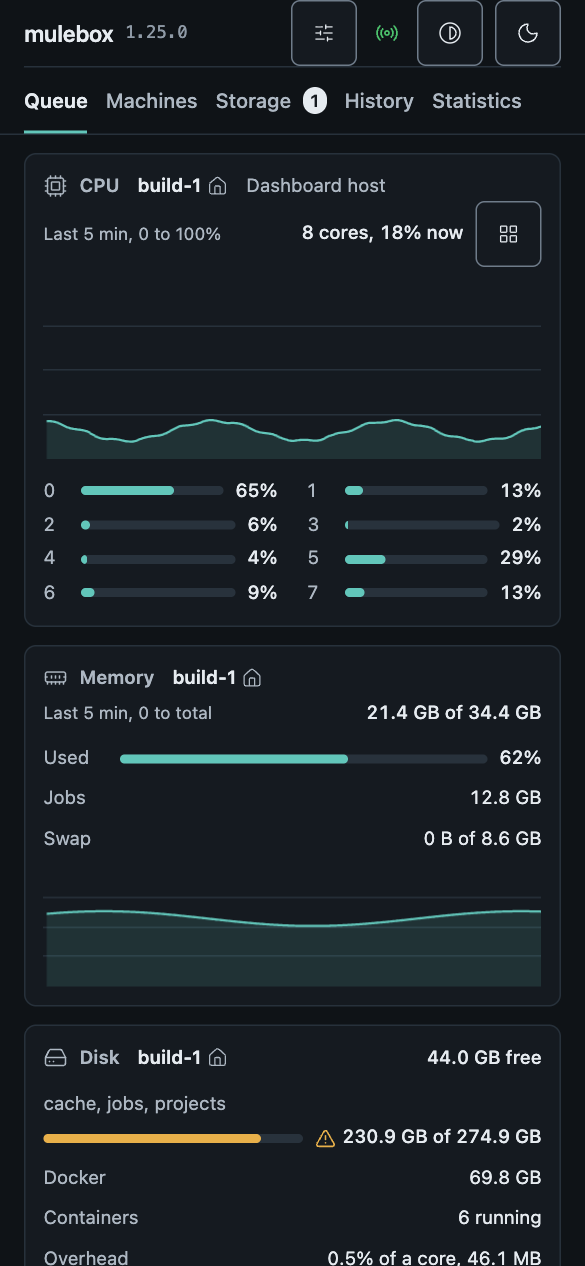
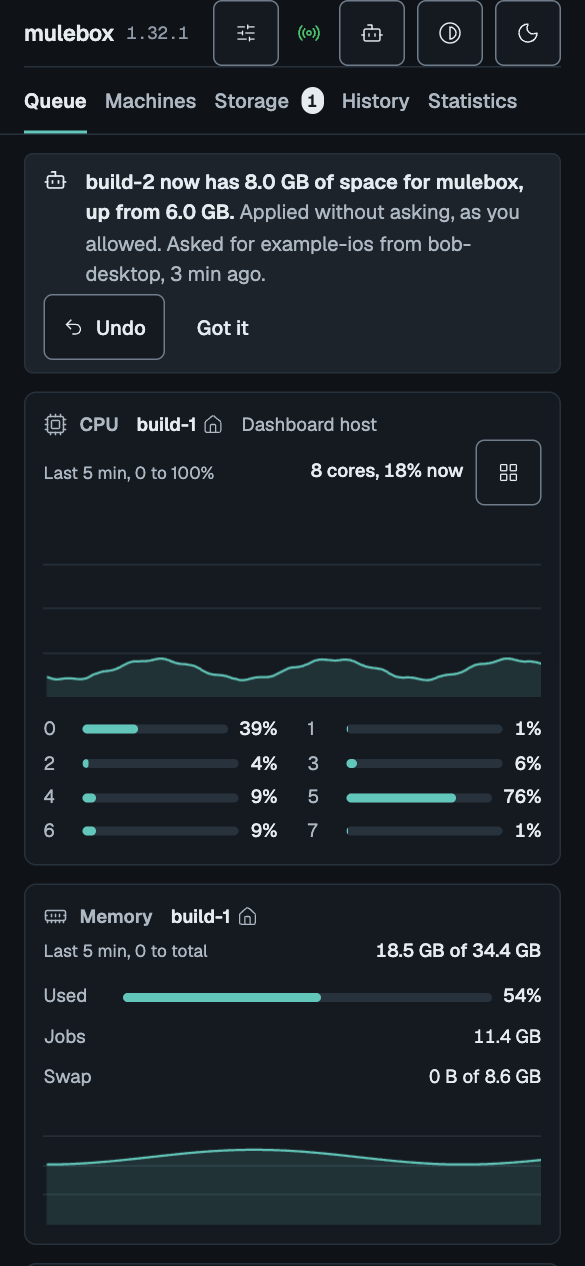
1.32.2: README on agents asking for more space, with new pictures; every picture retaken

diff --git a/web/dev/asks.ts b/web/dev/asks.ts
@@ -35,11 +35,13 @@ const asked = (list: Ask[], note: string | null = null) => ({
   value: list.reduce((a, b) => (parseFloat(b.value) > parseFloat(a) ? b.value : a), list[0].value), note,
   asks: list.map(({ value, reason, project, job_id, client, asked_at }) => ({ value, reason, project, job_id, client, asked_at })) });
 const changes: Change[] = [
+  { id: id("chg"), node: null, setting: "agents", old: "allow", new: "ask", how: "agents", asked: null,
+    by: "the dashboard, from 192.168.1.50", at: now() - 60, in_force_at: null, undo_of: null },
   { id: id("chg"), node: "build-2", setting: "max_size", old: "6GB", new: "8GB", how: "allowed",
     asked: asked([ask("build-2", "8GB", 2, "example-ios", "bob-desktop", "Two simulator runtimes no longer fit beside DerivedData.")]),
     by: null, at: now() - 110, in_force_at: now() - 104, undo_of: null },
-  { id: id("chg"), node: null, setting: "agents", old: "allow", new: "ask", how: "agents", asked: null,
-    by: "the dashboard, from 192.168.1.50", at: now() - 3 * 3600, in_force_at: null, undo_of: null },
+  { id: id("chg"), node: null, setting: "agents", old: "ask", new: "allow", how: "agents", asked: null,
+    by: "the dashboard, from 192.168.1.50", at: now() - 240, in_force_at: null, undo_of: null },
   { id: id("chg"), node: "build-2", setting: "max_size", old: "6GB", new: "6GB", how: "declined",
     asked: asked([ask("build-2", "12GB", 300, "example-ios", "bob-desktop", "DerivedData for the two schemes takes about 14 GB per branch.")], "Clean the old schemes first."),
     by: "the dashboard, from 192.168.1.50", at: now() - 5 * 3600, in_force_at: null, undo_of: null },

diff --git a/tools/screenshots.py b/tools/screenshots.py
@@ -44,7 +44,8 @@ class Shot:
     wait: float = 4.0
 
 
-CLEAN = {"MULEBOX_MOCK_CLEAN": "1"}
+CLEAN = {"MULEBOX_MOCK_CLEAN": "1", "MULEBOX_MOCK_ASKS": "none"}  # no agent request but where shown
+ASKS = {**CLEAN, "MULEBOX_MOCK_ASKS": "two"}
 SHOTS = [
     Shot("queue-dark", "#/", env=CLEAN),
     Shot("queue-light", "#/", "light", env=CLEAN),
@@ -78,6 +79,15 @@ SHOTS = [
     Shot("low-space-light", "#/", "light", height=560, env={**CLEAN, "MULEBOX_MOCK_SCENE": "lowspace"}),
     Shot("storage-review-dark", "#/", env={**CLEAN, "MULEBOX_MOCK_SCENE": "lowspace"},
          script="[...document.querySelectorAll('button')].find(b => b.textContent === 'Review what goes').click()"),
+    Shot("ask-strip-light", "#/", "light", height=560, env=ASKS),
+    Shot("ask-review-dark", "#/", height=860, env={**CLEAN, "MULEBOX_MOCK_ASKS": "one"},
+         script="[...document.querySelectorAll('button')].find(b => b.textContent === 'Review').click()"),
+    Shot("agents-light", "#/", "light", height=640, env=CLEAN,
+         script="document.querySelector('[aria-label=\"Agents: what agents may do\"]').click()"),
+    Shot("settings-history-light", "#/storage", "light", height=760, env=ASKS,
+         script="(async () => { await new Promise(r => setTimeout(r, 800));"
+                " const h = document.querySelector('section[aria-label=\"Settings history\"]');"
+                " h.scrollIntoView(); window.scrollBy(0, -60); })()"),
     Shot("sign-in-light", "page:login.html", "light", width=1000, height=640, env=CLEAN, wait=2.0),
     Shot("sign-in-dark", "page:login.html", width=1000, height=640, env=CLEAN, wait=2.0),
     Shot("design-system-light", "file:design-system/specimen.html", "light", height=1100, wait=2.0,

diff --git a/README.md b/README.md
@@ -164,7 +164,7 @@ theme and follows the system's by default.
 | History, searchable | Job minutes, by kind, project and machine |
 | ![A node's settings, Jobs tab: slots, priority, dev mode and what the node reports, each setting with mulebox's suggestion beside yours](docs/images/node-settings-dark.png) | ![The Order panel: the rules for the order of the line, each waiting row saying why it stands where it does](docs/images/order-light.png) |
 | A node's slots, priority and dev mode, with the suggestion | Rules for the order of the line |
-| ![The Storage page: a node's disk as one ruler with its reserve, the automatic cleanup and what it last did, then every project and its branch folders with what happens to each](docs/images/storage-dark.png) | ![The Storage tab of a node's settings: free space to keep, the most mulebox may use, when unused folders go, the latest folder, cleaning up on its own, cleaning Docker too, idle projects and the size at which agents are warned](docs/images/storage-settings-light.png) |
+| ![The Storage page: a node's disk as one ruler with its reserve, the automatic cleanup and what it last did, then every project and its branch folders with what happens to each](docs/images/storage-dark.png) | ![The Storage tab of a node's settings: the space mulebox may use beside the disk floor, when unused folders go and idle ones are slimmed, the latest folder, cleaning up on its own, cleaning Docker too, and idle projects](docs/images/storage-settings-light.png) |
 | What mulebox holds on a node, and what goes when | A node's disk settings, with what they would do |
 
 The Storage page shows, per node, what mulebox holds on its disk and what happens to each part: the
@@ -173,17 +173,45 @@ with size, last job and when each goes on its own, package caches, toolchains, r
 Docker's totals with what the last cleanup freed there. Each folder's path can be copied, a project or
 branch marked to keep, and a clean lists what it removes before anything goes. A project with no
 job for two weeks gets a suggestion on its row. At the top, one line says whether the automatic
-cleanup is on and what it does, what the last one removed, and what mulebox holds against the size
-at which it warns; Run now runs a cleanup at once. At the bottom, the cleanup history lists every
+cleanup is on and what it does, what the last one removed, and what mulebox holds against the space
+it may use; Run now runs a cleanup at once, and says first how much it removes and slims. At the bottom, the cleanup history lists every
 cleanup with why it ran, each folder it removed and why, what it freed in Docker, the free space
 before and after, and any error. The rules are a node's settings, in the Storage
-tab of its settings window, two to a row: how much space to keep free and the most mulebox may
-use, after how many days an unused branch folder goes and whether each project's latest folder
-stays, whether the node cleans up on its own and cleans Docker too, and when an idle project is
-suggested for cleaning and past what size agents are told to tell you; one line says what the
-values on screen would do before they are saved.
+tab of its settings window: first the space mulebox may use (20 GB by default, agents told from 80%
+of it) beside the disk floor, which counts only when the disk is nearly full for another reason;
+then after how many hours an idle branch folder is slimmed and after how many days an unused one
+goes, whether each project's latest folder stays, whether the node cleans up on its own and cleans
+Docker too, and when an idle project is suggested for cleaning. One line says what the values on
+screen would do before they are saved.
 
 ![The cleanup history: each cleanup with why it ran, the folders it removed and why, what Docker freed, the free space before and after, and an error](docs/images/storage-history-light.png)
+
+### When an agent needs more space
+
+From 80% of the space mulebox may use on a node, every command an agent runs tells it to ask you
+for more. With your yes it sends `mulebox storage ask --size 30GB --reason "..."`, and the request
+shows in the strip under the header, on every page, within seconds: Approve, Review or Decline.
+Review shows the agent's reason, who asked, and a bar of what mulebox holds, the limit now and what
+the yes would add, with a sentence that follows another value as you change it, including whether
+the disk would stay above its floor. Several requests for one node get one answer. The agent hears
+the answer in its next command, and while a request waits it is told not to ask again.
+
+| | |
+| --- | --- |
+| ![Two agents' requests for more space in the strip under the header, each with Approve, Review and Decline, and a grey line for a change applied without asking](docs/images/ask-strip-light.png) | ![The review window: the agent's reason, who asked, the space bar with what the yes adds and the 80% mark, and Approve, Another value and Decline](docs/images/ask-review-dark.png) |
+| Requests in the strip, on every page | One request, with the space bar |
+
+Whether a request needs your yes is your choice, in the Agents window in the header (or `mulebox
+agents ask|allow`): Ask me first, as installed, or Allow, and record it, which applies a request
+at once and tells you in a grey line with Undo. Every change of a node's setting, asked by an agent
+or made by you in the settings window or with `mulebox machine config`, goes into the settings
+history on the Storage page and `mulebox storage changes`: the old and new value, who asked and
+why, who confirmed, when the node took it, and Undo for a node's latest change.
+
+| | |
+| --- | --- |
+| ![The Agents window: Ask me first or Allow, and record it, with what each does](docs/images/agents-light.png) | ![The settings history: changes applied without asking, approved at another value, declined with a note, the Agents option and a change by hand, each with who asked and who confirmed](docs/images/settings-history-light.png) |
+| Whether agents must ask | Every setting change, with who asked and who confirmed |
 
 When a node falls under its reserve and the rules have nothing left to remove, the strip above
 the panels says so on every page, and the owner decides what goes:
@@ -396,12 +424,15 @@ From the CLI or the dashboard, with no sign-in needed through the tunnel:
 - **Machines page**: every node with its state, load, network, slots, version and last contact,
   and a settings window per node for its slots, priority, dev mode and disk rules.
 - **Storage page**: what mulebox holds on each node and what goes when, the automatic cleanup with
-  Run now, and the history of every cleanup.
+  Run now, the history of every cleanup, and the settings history: every change of a node's
+  setting with who asked and who confirmed, and Undo.
+- **Agents' requests** for more space in the strip, with Approve, another value or Decline, and an
+  Agents window to let them apply at once, recorded.
 - **Order panel**: the rules for the order of the line, set and saved from the page.
 - **Download meters** on a job's card: bytes, total and speed, and a warning when one stalls.
 - **Out of step**: a strip says when a dev machine, a worker or a skill runs another version, with the fix.
 - **Light and dark** themes and two meter styles, remembered per browser, and a layout that works on
-  a phone.
+  a phone. An open page reloads itself after an upgrade, once no window is open on it.
 - **From any device on your LAN**, with a password, a firewall rule and optional HTTPS, or read-only
   (`controls = false`).
 - **Light on the node**: about 0.6% of one core and 46 MB with a page open.
@@ -470,6 +501,10 @@ command prints. The ones you and your agents use:
 | `mulebox project clean`, `reset` | remove old branch folders, or a project's whole folder, on every node |
 | `mulebox project keep <project>` | keep a project's folders, or a branch's, from the automatic cleanup |
 | `mulebox storage` | what mulebox holds on each node, and what goes when |
+| `mulebox storage ask --size 30GB --reason "..."` | an agent, with your yes: more space for mulebox on a node |
+| `mulebox storage requests`, `approve`, `decline` | answer agents' requests (`--size` for another value, `--note` for the agent) |
+| `mulebox storage changes`, `undo <id>` | every setting change with who asked and who confirmed; undo the latest |
+| `mulebox agents ask\|allow` | whether an agent's request waits for your yes or applies at once, recorded |
 
 **Machines and setup**:
 

diff --git a/PROJECT_LOG.md b/PROJECT_LOG.md
@@ -8,6 +8,10 @@ Entry format:
     ## <version> - <YYYY-MM-DD> - <patch|minor|major>
     - what changed and why (one line each)
 
+## 1.32.2 - 2026-11-15 - patch
+- README: agents asking for more space (a section with four new pictures: requests in the strip, the review window, the Agents window, the settings history), the Storage settings as they are since 1.30 (space for mulebox beside the disk floor, slimming), the new commands, and an open page reloading itself after an upgrade. Every picture retaken from the stand-in data.
+- `tools/screenshots.py`: the four new shots; the others are taken with no agent request (`MULEBOX_MOCK_ASKS=none`). `web/dev/asks.ts`: the made-up history tells a story that holds (Allow for a few minutes, a change applied in it, then Ask me first again).
+
 ## 1.32.1 - 2026-11-15 - patch
 - Review window, from the drill on the real node: after Approve, Undo appeared where Approve was, so a double-click took the yes back at once. Undo takes no click for its first 1.5 s (`web/src/features/asks/UndoButton.tsx`, in the window and the strip), and "Another value" turns into the stepper in its own place, so Decline no longer slides under the pointer. Test in `web/src/features/asks/strip.test.tsx`.
 - Settings changed in the dashboard's node settings window are recorded in the history as from that window and address, not as `mulebox machine config` (`dashboard/node_settings.py`).
